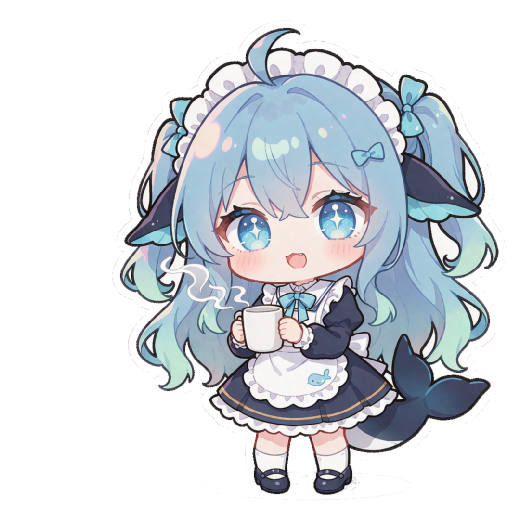
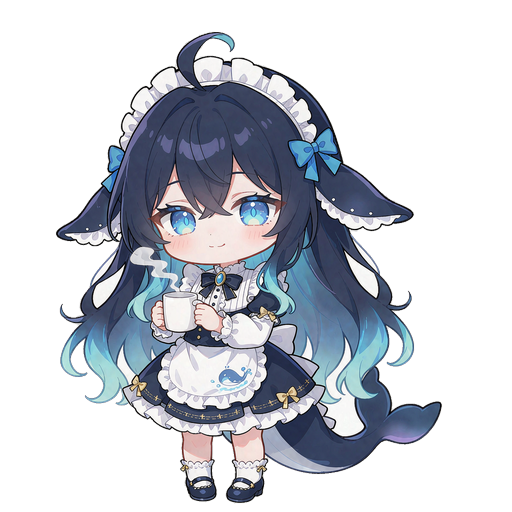
桌宠立绘换代：深海蓝鲸娘 24 档重画，抽出立绘归一化脚本
换代：24 张状态图按新设定重出（深海蓝发根 → 海蓝/浅青蓝发梢的渐变长卷发、三头身、白色蕾丝发箍两侧亮蓝蝴蝶结、鲸鳍状耳鳍、厚实深蓝鲸尾、深蓝+白女仆裙绣小鲸鱼、金边椭圆蓝宝石胸针、金色十字星与浅金蝴蝶结）。每档姿势与台词档位对齐：抱鲸鱼布偶、捧马克杯、抱枕打哈欠、围巾呵气、抱笔记本、放大镜、犯错抱头、侧躺睡着、摸头、害羞、星星眼、比心、被拎起、吃饼干、举小旗、撒彩带、升级、送礼、骑大鲸鱼、水里漂、跳起庆祝。

归一化：新增 scripts/pet-normalize.py。出图给的是白底、构图各异的方图，直接换会忽大忽小；脚本只抹**与画布边缘连通**的白（围裙、蕾丝、衬衫全是白的，一刀切会把人掏空），按主体高度缩到 94%，横向不按外接框居中而是取底部 12% 的 alpha 重心让脚踩同一条底线，边缘按离白底多远给半透明再把白减回去（un-premultiply），否则缩到 132px 会留一圈灰边。原图 30MB 级，落 .pet-src/raw，按 .gitignore 约定不入库。

PetWhale：顶部冻结的角色描述换成这一版并把色值写死（#1B3A8C / #3FA9F5 / #A8E0F0）；同时记下这一轮踩的三个坑——不写「单人、不要多格」会交回一张 2×2 角色设定图，摸头那张会自己从画外伸一只大人的手进来，姿势码必须写在提示词最前面（并行出图按前缀命名，只差结尾会撞名覆盖且不报错）。WhaleFace 的取脸参数按新立绘重量（190%、-29%、-26%）：这一版刘海把脸颊切得很碎，最大肤色连通块会挑到一小块腮红，改成读两眼中点。

复核：24 张在 132px 与暗色背景下均无灰边、脚线一致；typecheck 与 build 通过。

diff --git a/src/components/PetWhale.tsx b/src/components/PetWhale.tsx
@@ -3,17 +3,15 @@ import { cls } from '@/lib/format';
 /* ── 鲸娘的立绘 ────────────────────────────────────────────────────────
    24 张，在 `assets/pet/states/NN-<姿势>.png`，文件名与下面的 Pose 一一对应。
 
-   上一版只有**一张**图（白饭本人那张：一手举起打招呼、一手托着小鲸鱼），
-   24 档差异靠 CSS 叠出来 —— 色调、动效、基准姿态（躺下 / 前倾 / 镜像 / 推近），
-   外加一大堆 SVG 道具。那套的天花板很清楚：表情和姿势都改不了，
-   扫一眼还是"同一张图"，跟参考项目里 24 格各有各的动作不是一回事。
+   最早只有**一张**图，24 档差异靠 CSS 叠出来 —— 色调、动效、基准姿态
+   （躺下 / 前倾 / 镜像 / 推近），外加一大堆 SVG 道具。那套的天花板很清楚：
+   表情和姿势都改不了，扫一眼还是"同一张图"。
 
-   这一版把 24 档画成了 24 张，于是**道具、色调、身形变化全都不需要了**：
-   咖啡杯、睡帽、被子、围巾、笔记本、放大镜、饼干、奖杯、星星眼、爱心眼、
-   z、月亮、雪、气泡、彩带 …… 都已经画在画里。再叠一层 CSS 只会得到
-   两个杯子、两轮月亮、两个她。
+   现在 24 档是 24 张，于是**道具、色调、身形变化全都不需要了**：咖啡杯、
+   枕头、围巾、笔记本、放大镜、饼干、小旗子、星星眼、爱心眼、z、月亮、气泡、
+   彩带、鲸鱼 …… 都已经画在画里。再叠一层 CSS 只会得到两个杯子、两轮月亮、两个她。
 
-   所以现在只剩**一层**：
+   所以只剩**一层**：
 
      .pet-pose-*   动作（蹦、摇、抖、转圈、水里浮）
 
@@ -21,31 +19,38 @@ import { cls } from '@/lib/format';
    谁、在干嘛"，一个回答"她还活着"。两层都用 transform，所以说话时
    点头和动作层是相乘的，不会互相顶掉。
 
-   换图时统一规格过一版（抠底 → 裁到主体 → 按主体尺寸缩放到同一比例 →
-   脚落在同一条底线上）。不归一的话换姿势时她会忽大忽小：单看一张没问题，
-   动起来很明显。
+   出图 → 归一是两步，别把第二步省掉：模型给的是白底、构图各异的方图，
+   不归一的话换姿势时她会忽大忽小、忽左忽右 —— 单看一张没问题，动起来很明显。
+   现在 `python3 scripts/pet-normalize.py` 干这件事（抠底 → 裁到主体 →
+   按主体高度缩放到 94% → 脚心落在画布中线）。文件夹约定：
+
+     .pet-src/raw/       出图的原图（30MB 级，按 .gitignore 不入库）
+     assets/pet/states/  归一后的 512×512 透明 PNG，这才是进 bundle 的
 
    ── 重画这 24 张时要冻结的角色描述 ─────────────────────────────────────
-   逐字不变地放进每一条提示词，只换最后那句姿势（22 号那一档另加一条鲸鱼）：
+   逐字不变地放进每一条提示词，只在开头换「【NN-姿势】姿势：…」那一段：
 
-     画面    chibi anime illustration，Q 版约两头身，单人、无场景、纯白平底；
-             明确写上 **不要**贴纸描边 / 不要投影 / 不要背景圆 —— 这三样都会
-             在抠底时留下一圈灰边
-     发色    青调天蓝，基准 hex #75A3CA = rgb(117,163,202)，色相约 208°；
-             发梢褪到淡薄荷 hex #B9E5EA
-     头饰    白色扇贝边蕾丝女仆头箍（是白的，不是蓝的、不是一个蝴蝶结）
-             ＋ 侧边一枚浅蓝小蝴蝶结
-     脸      大而亮的宝蓝眼、四角星高光、浓睫毛、腮红、小张嘴
-     发型    长卷发、低双马尾垂在肩前、一根呆毛竖起；头两侧是深藏青鲸鳍状
-             耳鳍、浅蓝薄膜
-     服装    藏青女仆裙 ＋ 白色水手领 ＋ 浅蓝领结；白围裙（绣一只小鲸鱼）；
-             藏青褶裙、细金边、白色荷叶裙摆；白袜 ＋ 深藏青玛丽珍鞋；身后一条鲸尾
+    画面    Q 版三头身、大头小身子、单人全身、无场景、纯白平底；
+            明确写上 **不要**贴纸描边 / 不要投影 / 不要背景圆 / 不要多格分镜
+    发色    深海蓝发根 #1B3A8C → 发尾明亮海蓝 #3FA9F5 + 浅青蓝 #A8E0F0；
+            蓬松长卷发垂到腰下、发梢散成微卷波浪；层叠斜刘海、一根弧形呆毛
+    头饰    拱起的白色蕾丝女仆发箍（层层褶边）＋ 两侧各一枚亮蓝小蝴蝶结
+    耳鳍    头侧一对向外展开的鲸鱼鳍状耳朵，外深海蓝、内缘白色波浪褶边
+    脸      圆脸大眼，深蓝外圈 + 亮蓝虹膜 + 多个白色/浅蓝高光，浓睫毛、
+            淡粉腮红、小嘴
+    尾巴    身后一条厚实深蓝鲸尾，腰后弯向侧面，末端两片圆润尾鳍
+    服装    白高领褶裥衬衫 ＋ 深蓝蝴蝶结 ＋ 金边椭圆蓝宝石胸针；深蓝收腰
+            短上衣、蓬袖白蕾丝；宽大白围裙绣小鲸鱼与水花；深蓝外撑短裙叠
+            多层白花边，金色十字星与浅金小蝴蝶结；白花边短袜 ＋ 深蓝玛丽珍鞋
 
-   两个踩过的坑，重画时别再踩：
+   三个踩过的坑，重画时别再踩：
    ① 发色只写 "blue" 会被画成蓝紫。要把色值写死，并**显式排除**紫 / 薰衣草 /
       紫罗兰 / 蓝紫 —— 这一处跑偏过一整轮，24 张全部重画。
-   ② 批量出图**一次一个目录**：并行调用落在同一秒时文件名会撞车、后一张把前一张
-      覆盖掉，而且不报错。出完记得对一遍 md5。 */
+   ② 不写"单人、不要多格"的时候，模型会交回一张 2×2 的角色设定图（同一批里
+      真发生过，那一格缩到 132px 就是四只小米粒）；"被摸头"那张还会自己从画外
+      伸一只大人的手进来，要显式排除别人的手。
+   ③ 姿势码写在提示词**最前面**：并行出图落在同一秒时文件名会按提示词前缀生成，
+      长提示词只差结尾就全撞在一起、后一张把前一张覆盖掉，而且不报错。 */
 
 export type Pose =
   | 'idle'
@@ -130,18 +135,19 @@ export function Whale({ pose = 'idle', size = 132, talk = false }: { pose?: Pose
  * 只露一张脸的小头像。收起桌宠之后右下角那颗唤回按钮用它 ——
  * 缩到 30px 还放全身的话只剩一团蓝，认不出是谁。
  *
- * 取的是 `idle` 那张。脸的位置是**量出来的**，不是目测：在 512 画布上把肤色
- * 打成连通块（R>G>B、够亮、饱和度不高），最大那块就是脸，外接框中心落在
- * (50.4%, 41.1%)。用外接框中心而不是质心：质心会被下巴和脖子往下拽，
- * 景别取到嘴那一带，眼睛就顶到圆边上了。
+ * 取的是 `idle` 那张。位置是**量出来的**，不是目测：在 512 画布上铺一层
+ * 5% 的网格，读两只眼睛的中点 —— 这一版刘海把脸颊切得很碎，按"最大肤色
+ * 连通块"取外接框会挑到一小块腮红（旧版那套做法在这里会偏到 33%），
+ * 所以改成读眼距的中点，落点 (41.5%, 43.5%)。
  *
  * 两个百分比的分母**不是同一个**：left 按容器的宽、top 按容器的高算。
- * 图放成 180%，把脸心推到圆心：
- *   left = 50% − 1.8 × 50.4% ≈ −41%
- *   top  = 50% − 1.8 × 41.1% ≈ −24%
+ * 图放成 190%，把脸心推到圆心，纵向再往上抬一点（43.5% → 40%），
+ * 免得眼睛贴着圆的上沿：
+ *   left = 50% − 1.9 × 41.5% ≈ −29%
+ *   top  = 50% − 1.9 × 40.0% ≈ −26%
  *
  * 这组数跟着立绘的裁切走：立绘一旦重新归一化（主体尺寸/SIZE 变了），
- * 脸心就会平移，这两个值必须跟着重量一次。
+ * 脸心就会平移，这三个值必须跟着重量一次。
  */
 export function WhaleFace({ size = 32 }: { size?: number }) {
   return (
@@ -151,7 +157,7 @@ export function WhaleFace({ size = 32 }: { size?: number }) {
         alt=""
         draggable={false}
         className="absolute max-w-none select-none"
-        style={{ width: '180%', left: '-41%', top: '-24%' }}
+        style={{ width: '190%', left: '-29%', top: '-26%' }}
       />
     </span>
   );

diff --git a/scripts/pet-normalize.py b/scripts/pet-normalize.py
@@ -1,0 +1,147 @@
+#!/usr/bin/env python3
+"""桌宠立绘归一化：白底 → 透明 → 裁到主体 → 统一尺寸 → 脚踩同一条底线。
+
+    python3 scripts/pet-normalize.py                     # .pet-src/raw → states/
+    python3 scripts/pet-normalize.py --check             # 只报告，不落盘
+
+    `--src` 默认是 `.pet-src/raw`：原图一张 1.5MB、24 张 30MB 级，而且都能
+    按提示词重出，所以按 .gitignore 的约定不入库（角色描述见 PetWhale.tsx 顶部）。
+
+为什么需要它：出图模型给的是**白底、构图各异**的方图，而桌宠要的是
+24 张换着播还认得出是同一个人的序列图。单看一张都没问题，一换姿势就
+会忽大忽小、忽左忽右 —— 那点漂移在 132px 的小身板上特别明显。
+
+三步：
+
+1. **去白底**。不能简单地"白像素 → 透明"：围裙、蕾丝、衬衫全是白的，
+   一并抹掉人就被掏空了。所以只抹**与画布边缘连通**的那一片白，靠
+   `scipy.ndimage.label` 找连通域；被角色围住的白色（围裙）不算背景。
+   边缘的过渡像素按"离白底多远"给半透明 alpha，再把白色从颜色里除掉
+   （un-premultiply），否则缩到 132px 会留一圈灰边。
+
+2. **统一比例**。按主体高度缩放到画布 94%，宽度超了就改按宽度收 ——
+   躺着的睡姿是横着的，只按高度放大会撑出画布。
+
+3. **脚踩同一条底线**。横向不按外接框居中：鲸尾、举起的手都在侧面，
+   按外接框居中会把**人**推偏。改成取底部 12% 那一条的 alpha 重心
+   （就是两只脚的位置），让脚心落在画布中线。
+
+文件名靠提示词开头的 `【05-night】` 认档位（出图工具会把【】和 `-` 洗成
+`_05_night_`，所以这里按 `\d{2}[-_]pose` 取）。这也是**姿势码必须写在提示词
+最前面**的原因：并行出图落在同一秒时，文件名是提示词前缀，长提示词只差结尾
+就全撞在一起、后一张把前一张覆盖掉，还不报错。
+"""
+
+from __future__ import annotations
+
+import argparse
+import glob
+import os
+import re
+import sys
+
+import numpy as np
+from PIL import Image
+from scipy import ndimage
+
+SIZE = 512
+FILL = 0.94  # 主体高度占画布的比例，与旧版一致
+BG_TOL = 20  # 与白底的色差小于它就算"白"
+EDGE_LO, EDGE_HI = 8, 30  # 半透明过渡带
+FEET_BAND = 0.12  # 底部多少算"脚那一条"
+
+
+def cut_background(im: Image.Image) -> Image.Image:
+    rgb = np.asarray(im.convert('RGB'), dtype=np.float32)
+    h, w, _ = rgb.shape
+
+    border = np.concatenate([rgb[0, :], rgb[-1, :], rgb[:, 0], rgb[:, -1]])
+    bg = np.median(border, axis=0)
+
+    # 与白底的"最大单通道差"：比欧氏距离保守，浅灰阴影也留得住
+    dist = np.abs(rgb - bg).max(axis=2)
+    near = dist < BG_TOL
+
+    # 只有和画布边缘连成一片的白才算背景；围裙那种被角色围住的白留着
+    labels, _ = ndimage.label(near)
+    edge_ids = set(labels[0, :]) | set(labels[-1, :]) | set(labels[:, 0]) | set(labels[:, -1])
+    edge_ids.discard(0)
+    outside = np.isin(labels, list(edge_ids))
+
+    alpha = np.where(outside, np.clip((dist - EDGE_LO) / (EDGE_HI - EDGE_LO), 0.0, 1.0), 1.0)
+    alpha[alpha < 0.04] = 0.0
+
+    # 边缘像素原本是"角色色 + 白底"的混合，把白底那部分减回去，免得缩图后发灰
+    a = alpha[..., None]
+    straight = np.where(a > 0.05, (rgb - bg * (1.0 - a)) / np.maximum(a, 1e-6), rgb)
+    out = np.concatenate([np.clip(straight, 0, 255), alpha[..., None] * 255], axis=2).astype(np.uint8)
+    return Image.fromarray(out, 'RGBA')
+
+
+def feet_center(alpha: np.ndarray) -> float:
+    """底部那一条的 alpha 重心 —— 也就是两只脚站的地方。"""
+    h = alpha.shape[0]
+    band = alpha[int(h * (1 - FEET_BAND)):].astype(np.float32)
+    col = band.sum(axis=0)
+    if col.sum() <= 0:
+        return alpha.shape[1] / 2
+    return float((col * np.arange(len(col))).sum() / col.sum())
+
+
+def normalize(im: Image.Image) -> Image.Image:
+    im = im.crop(im.split()[3].getbbox())
+    bw, bh = im.size
+
+    scale = min(SIZE * FILL / bh, SIZE * 0.98 / bw)
+    w, h = max(1, round(bw * scale)), max(1, round(bh * scale))
+    im = im.resize((w, h), Image.LANCZOS)
+
+    alpha = np.asarray(im.split()[3], dtype=np.float32) / 255.0
+    cx = feet_center(alpha)  # 缩放后的像素坐标
+    x = int(round(SIZE / 2 - cx))
+    x = min(max(x, 0), SIZE - w)  # 尾巴甩出画布就退回来，宁可偏一点也不切图
+
+    canvas = Image.new('RGBA', (SIZE, SIZE), (0, 0, 0, 0))
+    canvas.paste(im, (x, SIZE - h), im)
+    return canvas
+
+
+def main() -> int:
+    root = os.path.dirname(os.path.dirname(os.path.abspath(__file__)))
+    ap = argparse.ArgumentParser()
+    ap.add_argument('--src', default=os.path.join(root, '.pet-src/raw'))
+    ap.add_argument('--dst', default=os.path.join(root, 'src/assets/pet/states'))
+    ap.add_argument('--check', action='store_true')
+    args = ap.parse_args()
+
+    files = sorted(glob.glob(os.path.join(args.src, '*.png')))
+    if not files:
+        print(f'没有待处理的图：{args.src}')
+        return 1
+
+    seen: dict[str, str] = {}
+    for path in files:
+        # 出图工具会把【】和连字符吃掉，落到文件名里的是 02_plush 这种形式
+        m = re.search(r'(?<!\d)(\d{2})[-_]([a-z]+)', os.path.basename(path))
+        if not m:
+            print(f'跳过（文件名里没有 NN-pose）: {os.path.basename(path)}')
+            continue
+        name = f'{m.group(1)}-{m.group(2)}.png'
+        if name in seen:
+            print(f'!! 撞名 {name}: {seen[name]} / {path}')
+            continue
+        seen[name] = path
+
+        out = normalize(cut_background(Image.open(path)))
+        bbox = out.split()[3].getbbox()
+        print(f'{name:18s} bbox={bbox}')
+        if not args.check:
+            out.save(os.path.join(args.dst, name))
+
+    missing = 24 - len(seen)
+    print(f'\n处理 {len(seen)} 张' + (f'，还差 {missing} 张' if missing else '，24 张齐了'))
+    return 0
+
+
+if __name__ == '__main__':
+    sys.exit(main())
